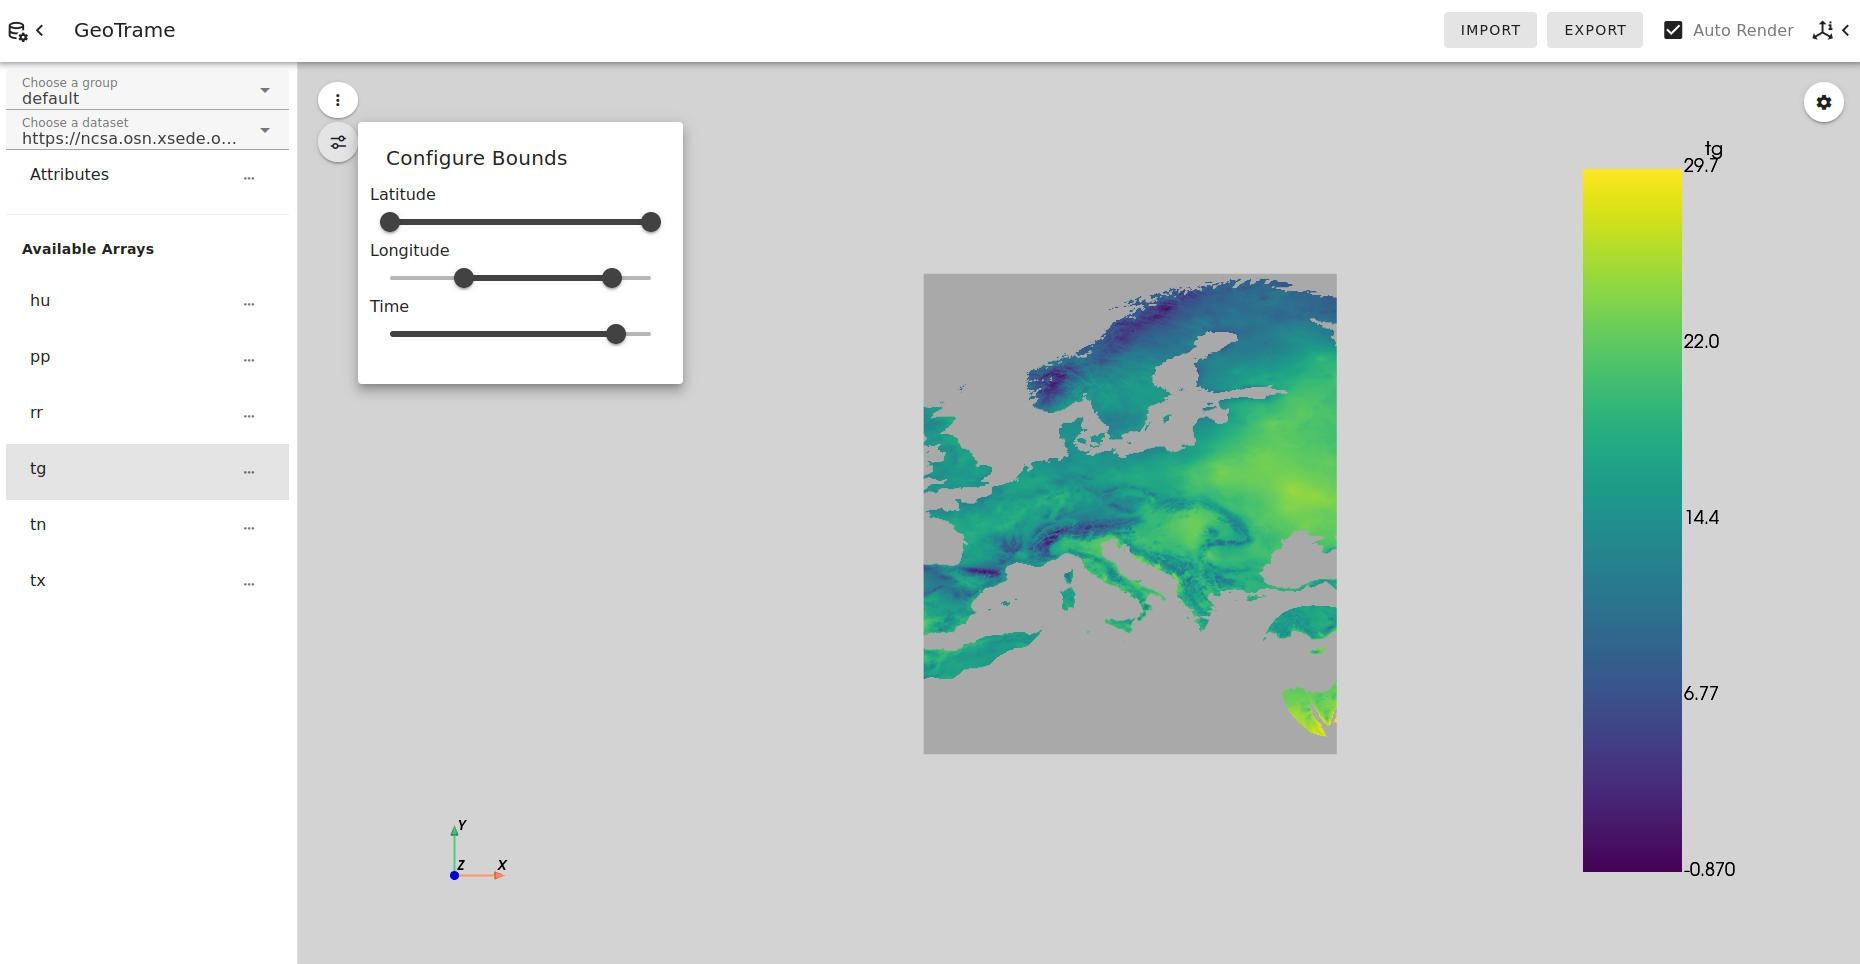
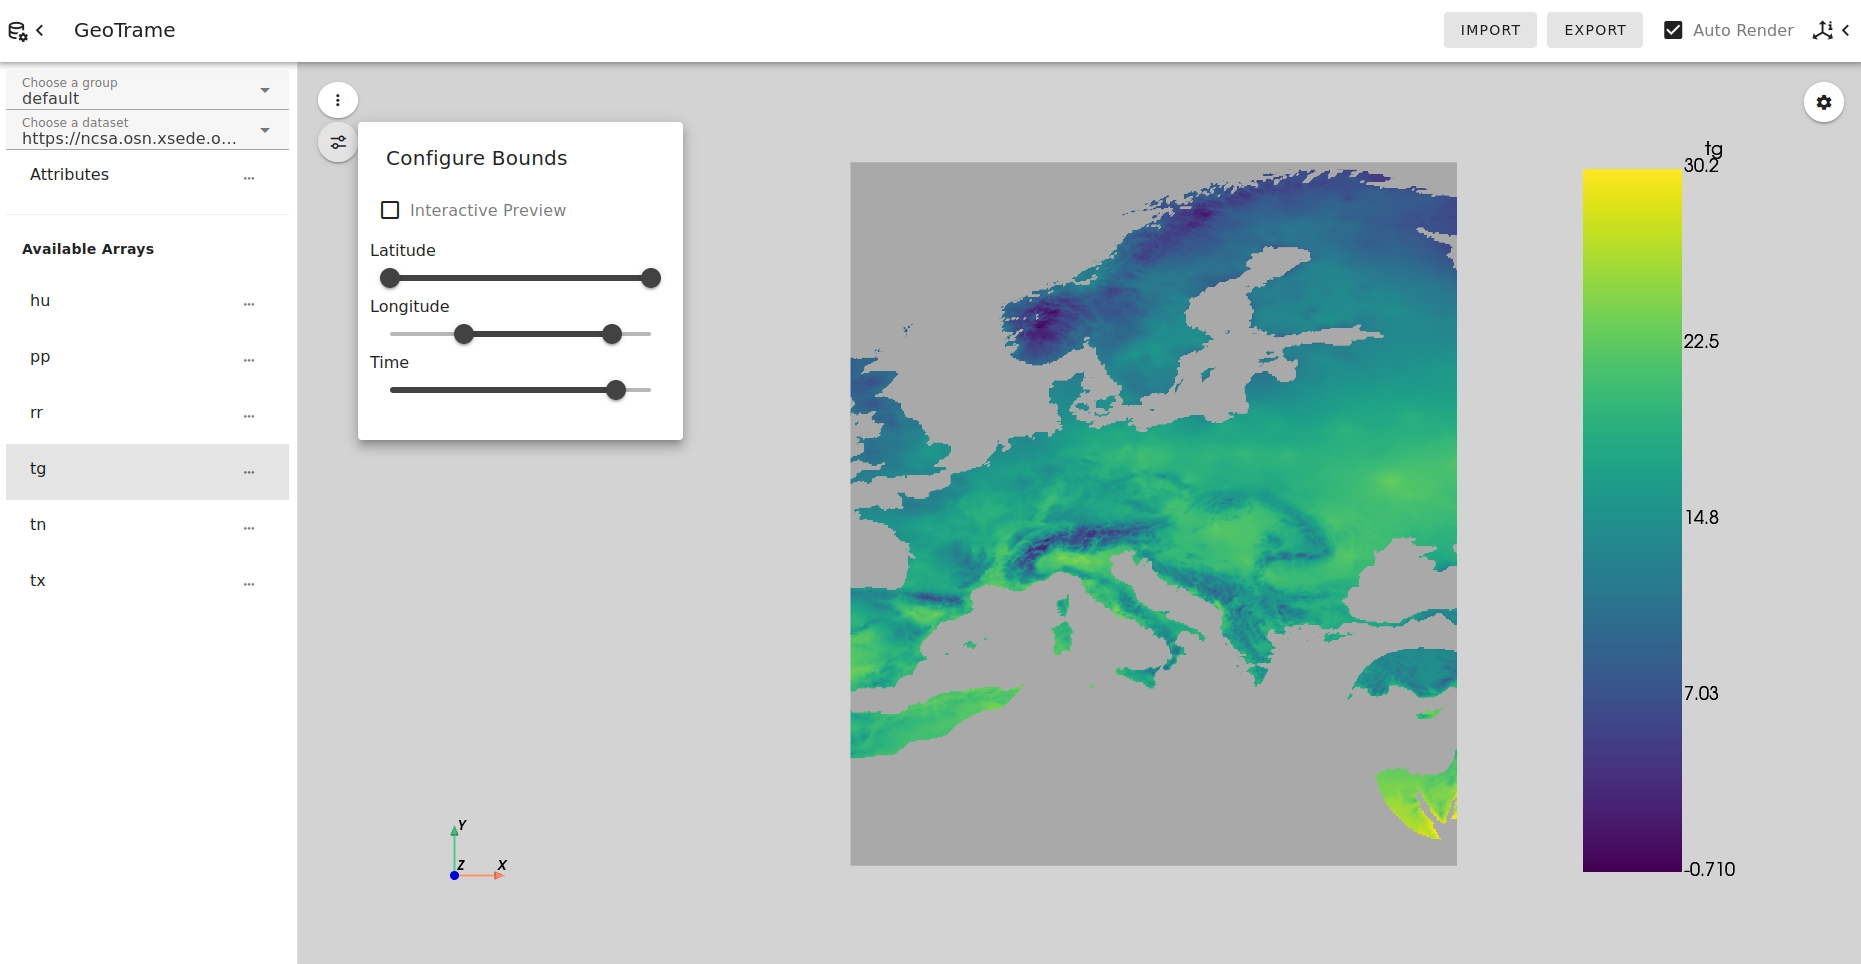
docs: Add preview bounds explanation for 2D data

diff --git a/docs/tutorials/dataset_viewer.md b/docs/tutorials/dataset_viewer.md
@@ -98,6 +98,14 @@ The bounds configuration menu displays range sliders for each coordinate. These 
 
 ![](../images/8b.png)
 
+When "Interactive Preview" is enabled, a greyscale preview of one face of the data will appear, replacing two of the spatial coordinate sliders. By default, the preview image is of the -Z face, so it replaces the sliders for X and Y.
+
+![](../images/8c.png)
+
+We can now adjust the bounds of the X and Y coordinates by manipulating the red box within the preview image. We can still use the time slider, and updating the time value will trigger an update of the preview image.
+
+![](../images/8d.png)
+
 The bounds configuration menu offers more features for 3D renders when three coordinates are assigned to X, Y, and Z. We'll revisit this panel with another dataset after this.
 
 #### Render configuration
